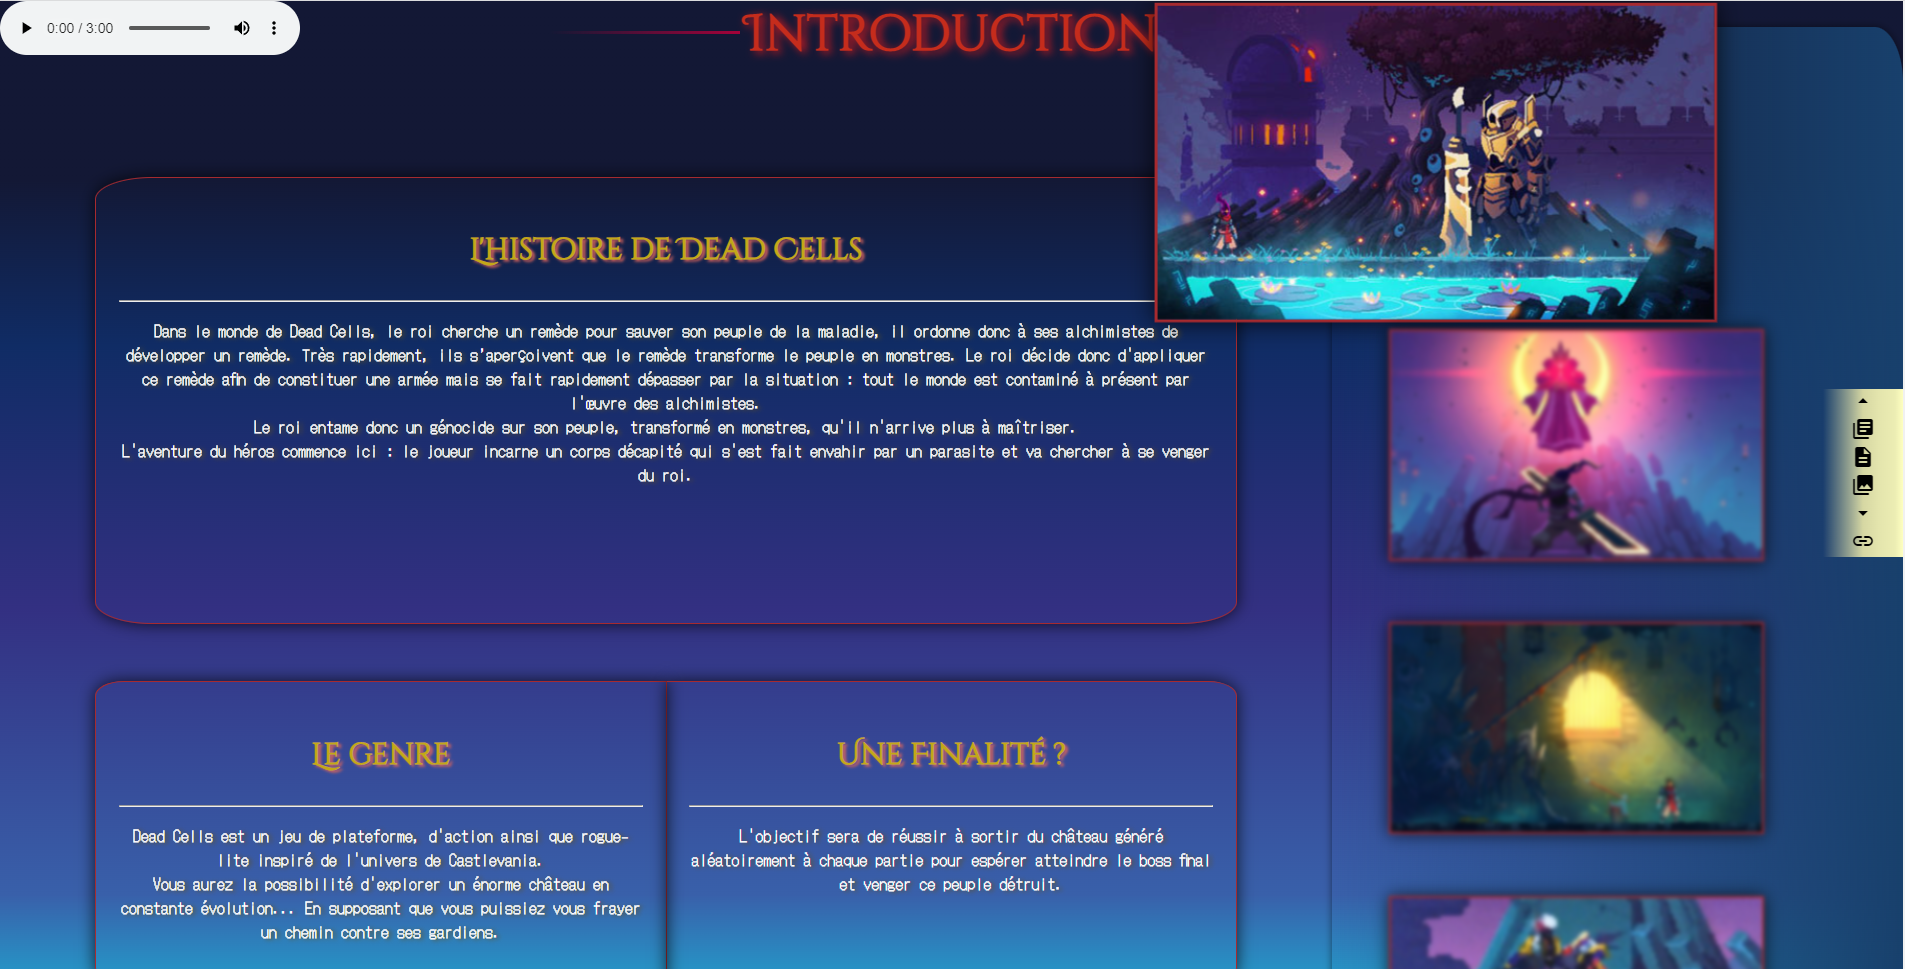
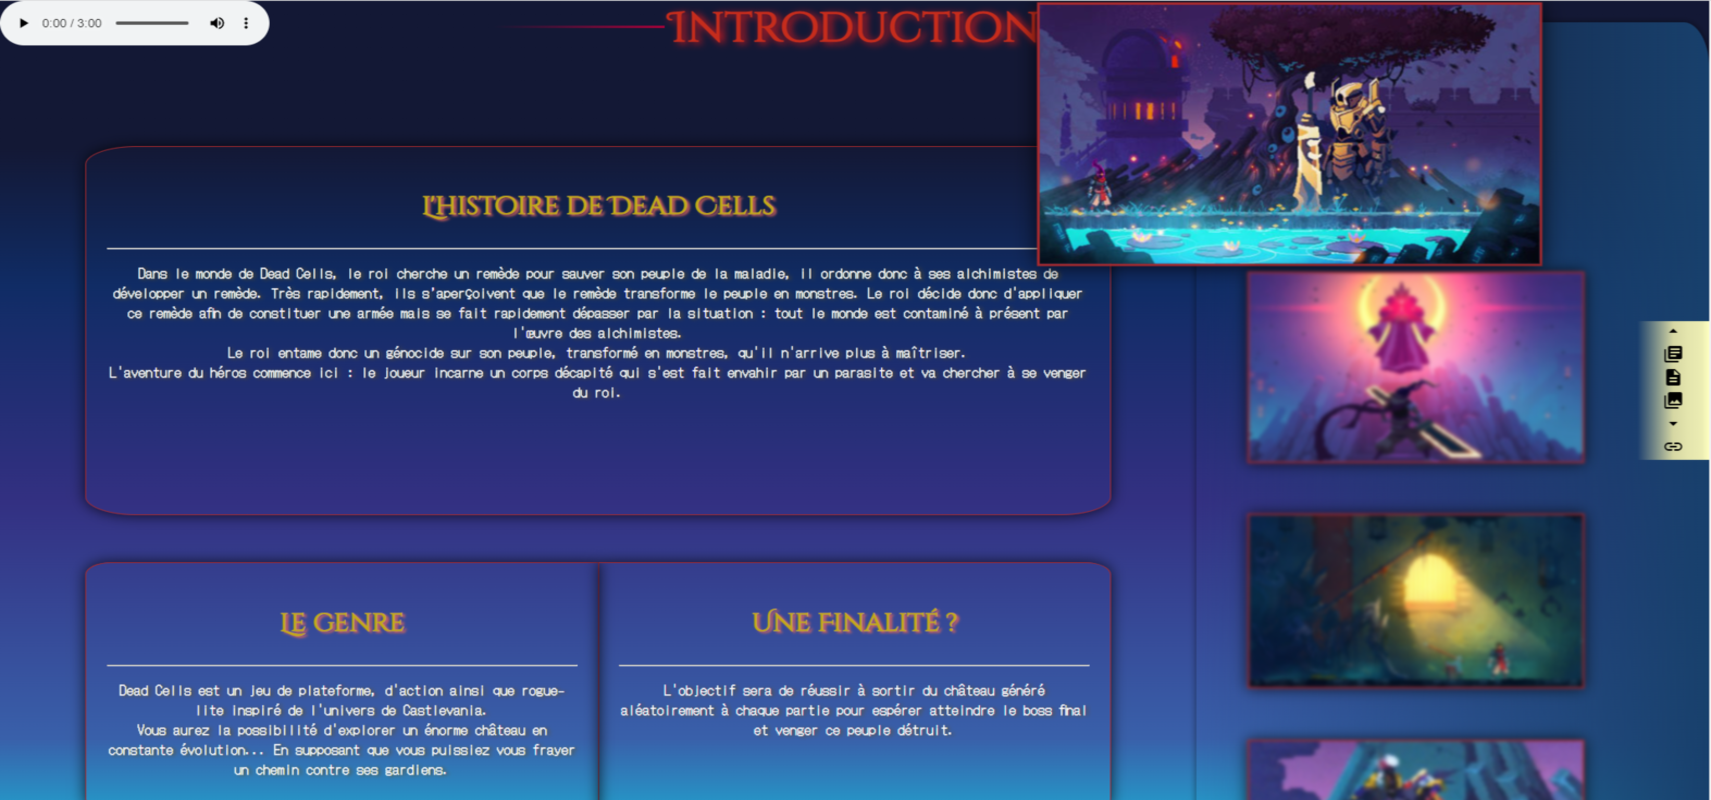
carrousel

diff --git a/Quentin/ index.html b/Quentin/ index.html
@@ -17,25 +17,31 @@
 
   <body>
     <div class="row">
-        <header>
+      <div class="main">
+      <div class="col l1 parallax-container">
+        <div class="parallax"><img src="img/banner.png"></div>
+      </div>
+          <div class="col s12 m12 l10 project">
+            <header>
             <div class="col s12 m12 l12 title">
               <h1>portfolio</h1>
             </div>
-        </header>
-        <div class="main">
-          <div class="col l1 parallax-container">
-            <div class="parallax"><img src="img/banner.png"></div>
-          </div>
-          <div class="col s12 m12 l10 trans"></div>
-          <div class="col s12 m12 l10 project">
+          </header>
+            <div class="col s12 m12 l12 trans"></div>
+            <div class="carousel carousel-slider col s12 m12 l3">
+              <a class="carousel-item" href="#one!"><img src="img/webq.png"></a>
+              <a class="carousel-item" href="#two!"><img src="img/webg.png"></a>
+              <a class="carousel-item" href="#three!"><img src="img/webc1.png"></a>
+              <a class="carousel-item" href="#four!"><img src="img/webc2.png"></a>
+              <a class="carousel-item" href="#five!"><img src="img/webco.png"></a>
+            </div>
+            <p class="col s12 m12 l3 flow-text">Réalisation d'un site web en HTML/CSS dans le cadre d'étude supervisée au sein du Gaming Campus</p>
             <img class="col s12 m12 l3" src="img/webq.png" alt="portfolio projet site-web">
-            <p class="col s12 m12 l2 flow-text">Lorem ipsum dolor sit amet, consectetur adipisicing elit, sed do eiusmod tempor incididunt ut labore et dolore magna aliqua. Ut enim ad minim veniam, quis nostrud exercitation ullamco laboris nisi ut aliquip ex ea commodo consequat. Duis aute irure dolor in reprehenderit in voluptate velit esse cillum dolore eu fugiat nulla pariatur. Excepteur sint occaecat cupidatat non proident, sunt in culpa qui officia deserunt mollit anim id est laborum.</p>
-            <img class="col s12 m12 l3" src="img/webq.png" alt="portfolio projet site-web">
-            <p class="col s12 m12 l2 flow-text">Lorem ipsum dolor sit amet, consectetur adipisicing elit, sed do eiusmod tempor incididunt ut labore et dolore magna aliqua. Ut enim ad minim veniam, quis nostrud exercitation ullamco laboris nisi ut aliquip ex ea commodo consequat. Duis aute irure dolor in reprehenderit in voluptate velit esse cillum dolore eu fugiat nulla pariatur. Excepteur sint occaecat cupidatat non proident, sunt in culpa qui officia deserunt mollit anim id est laborum.<p>
+            <p class="col s12 m12 l3 flow-text">bite<p>
           </div>
-          <div class="col l1 parallax-container">
-            <div class="parallax"><img src="img/banner.png"></div>
-          </div>
+        </div>
+        <div class="col l1 parallax-container">
+          <div class="parallax"><img src="img/banner.png"></div>
         </div>
       </div>
     </div>

diff --git a/Quentin/js/script.js b/Quentin/js/script.js
@@ -1,14 +1,11 @@
-M.AutoInit();
-
-document.addEventListener('DOMContentLoaded', function() {
-  var elems = document.querySelectorAll('.parallax');
-  var instances = M.Parallax.init(elems, options);
-});
-
-// Or with jQuery
-
 $(document).ready(function(){
   $('.parallax').parallax();
 });
 
-M.AutoInit();
+$(document).ready(function(){
+  $('.carousel').carousel();
+});
+
+$('.carousel.carousel-slider').carousel({
+  fullWidth: true
+});

diff --git a/Quentin/css/style.css b/Quentin/css/style.css
@@ -21,13 +21,13 @@ p{
   margin: 0
 }
 
+.project{
+  background-color: #82bcf3;
+}
+
 .trans {
   height: 50px;
   background: linear-gradient(180deg, rgba(85,64,98,1) 30%, rgba(130,188,243,1) 100%);
-}
-
-.project{
-  background-color: #82bcf3;
 }
 
 .parallax-container{
